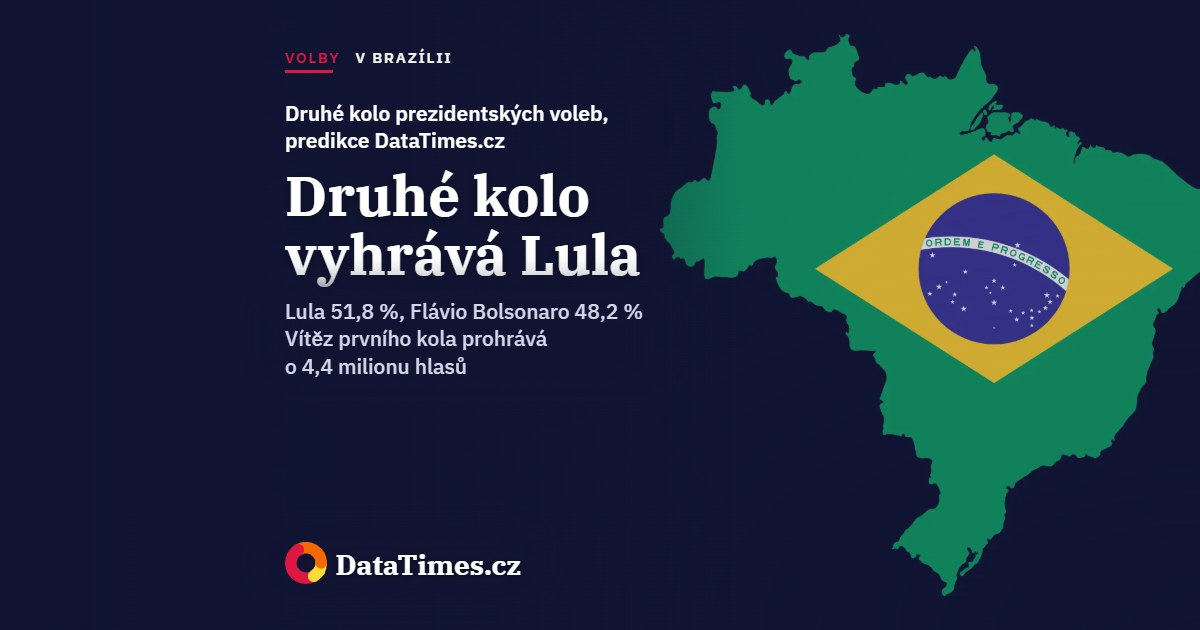
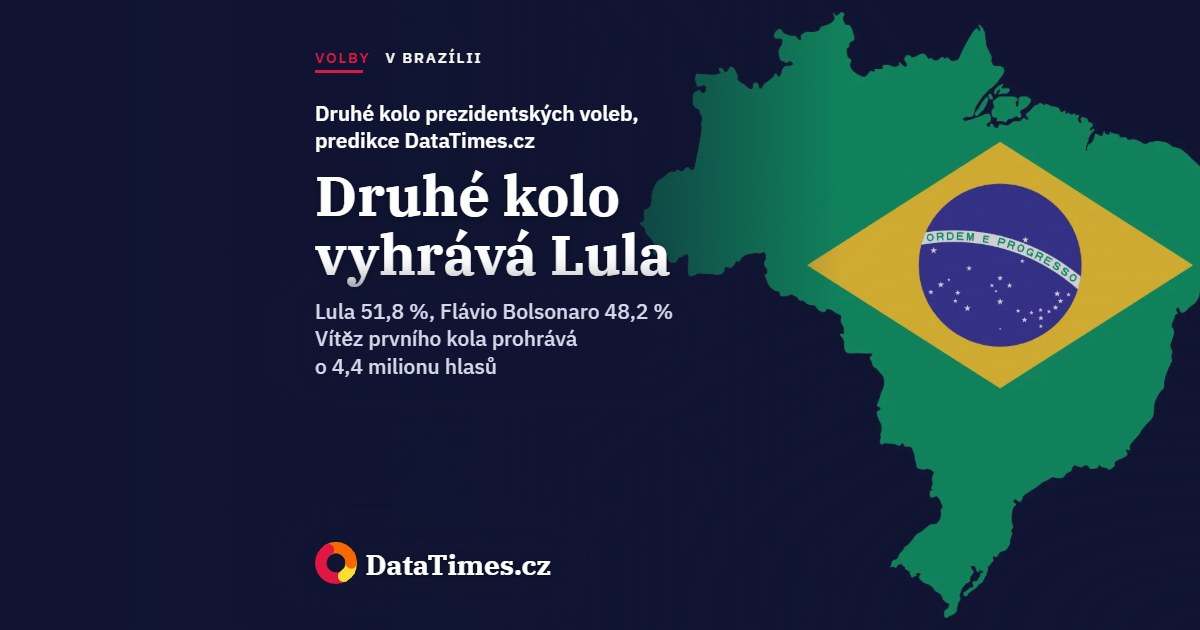
Brazílie 2. kolo: OG – text s rezervou uvnitř bezpečného čtverce, mapa přisunutá a vlevo plynule ztmavená (po vzoru Instagramu); pravidlo propojení v manuálu

diff --git a/tools/COVER-VIZUALNI-IDENTITA.md b/tools/COVER-VIZUALNI-IDENTITA.md
@@ -25,6 +25,7 @@ Pravidlo od 26. 10. 2026 (Kateřina u OG coveru Brazílie, 2. kolo: „vycentrov
 - **Kde je to vhodné, text a obrázek se nepřekrývají.** Na širokých formátech (OG 1200×630, homepage 1500×1200) dej motiv (mapu, vlajku, ikonu, fotku) na jednu stranu a text na druhou, **mapa vpravo, text vlevo**. Středové vrstvení textu přes ztlumený motiv je výjimka, ne výchozí volba.
 - **Výjimky, kdy překryv dává smysl:** motiv, který musí zabrat celou plochu (tečková mapa ČR přes celý cover, fotka jako podkres, tečková „slunečnice“ u citlivých témat), nebo formát na výšku, kde motiv leží pod textem.
 - **OG a ořez WhatsAppu:** titulek a logo dál drží ve středním čtverci 630 (x 285–915), takže text začíná u x 285 a motiv zabírá pravou část a klidně dobíhá k okraji. Logo pod textem vlevo, ne přes motiv.
+- **Propojení přes ztmavený okraj (OG Brazílie, 26. 10.):** motiv smí dojet až k textu, když jeho strana u textu plynule mizí do tmy (scrim v barvě pozadí, jako na Instagramu). Pak se text a obraz „skloubí“, ale text nikdy neleží přes plnou barvu motivu. V OG drží text rezervu asi 30 px uvnitř středního čtverce (start x ≈ 315), motiv je přisunutý k němu a klidně přesahuje pravý okraj; silnější přechod jen pro jeden formát: `pro.og.motiv.scrim`.
 - **Homepage:** text vlevo od x 180, motiv vpravo, pravý horní roh (x ≥ 950, y ≤ 280) volný pro štítek rubriky. Když se titulek nevejde vedle motivu, zalom ho jinak (přes `pro.homepage.titulek`) nebo motiv zmenši, nikdy ho nepouštěj přes text.
 - **Technicky:** v `cover.config.cjs` `format.og = { stred: false, box: [285, …] }` vypne středové rozvržení OG; `pro: { og: { titulek, nad, pod, logo: 'vlevo' } }` upraví texty a polohu loga jen pro jeden formát; `motiv.pozice` posune motiv. Vzor: `volby-brazilie-2026-10-25-druhe-kolo-vyhrava-lula`.
 - **Kontrola:** na kontaktním archu (`tools/kontaktni-arch.cjs`) se nesmí žádný text dotýkat motivu v žádném z pěti formátů.
